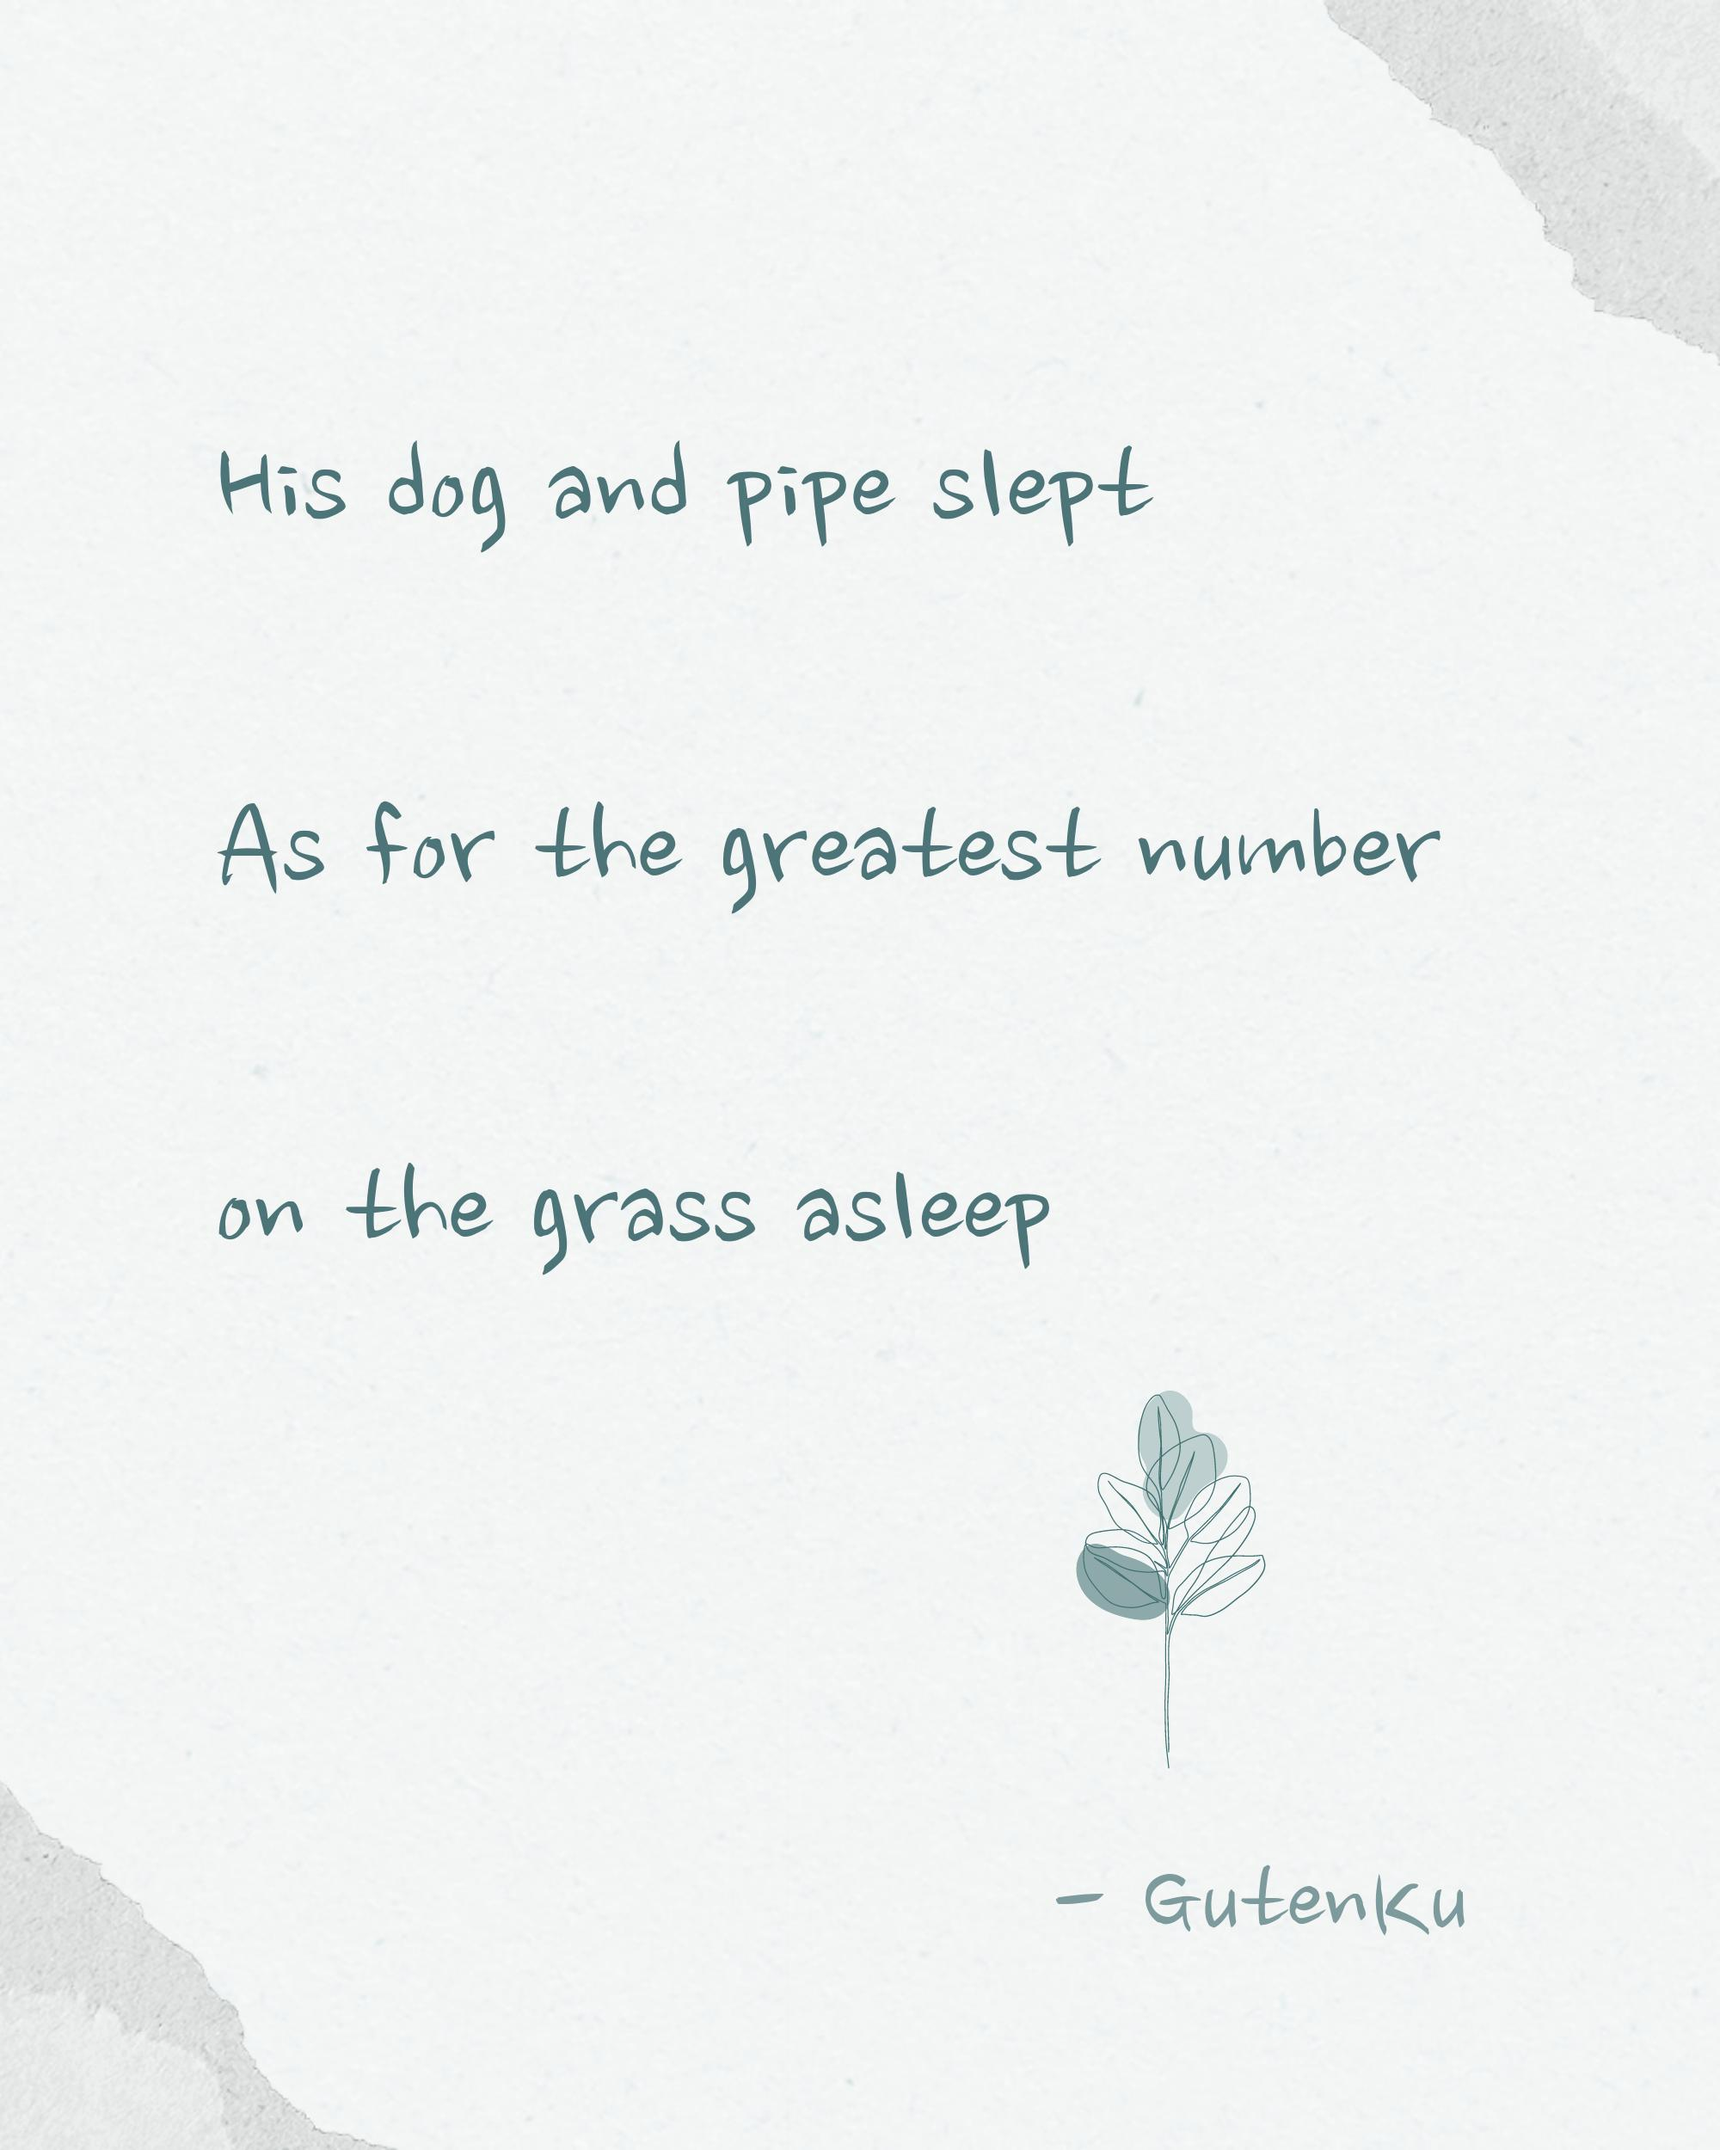
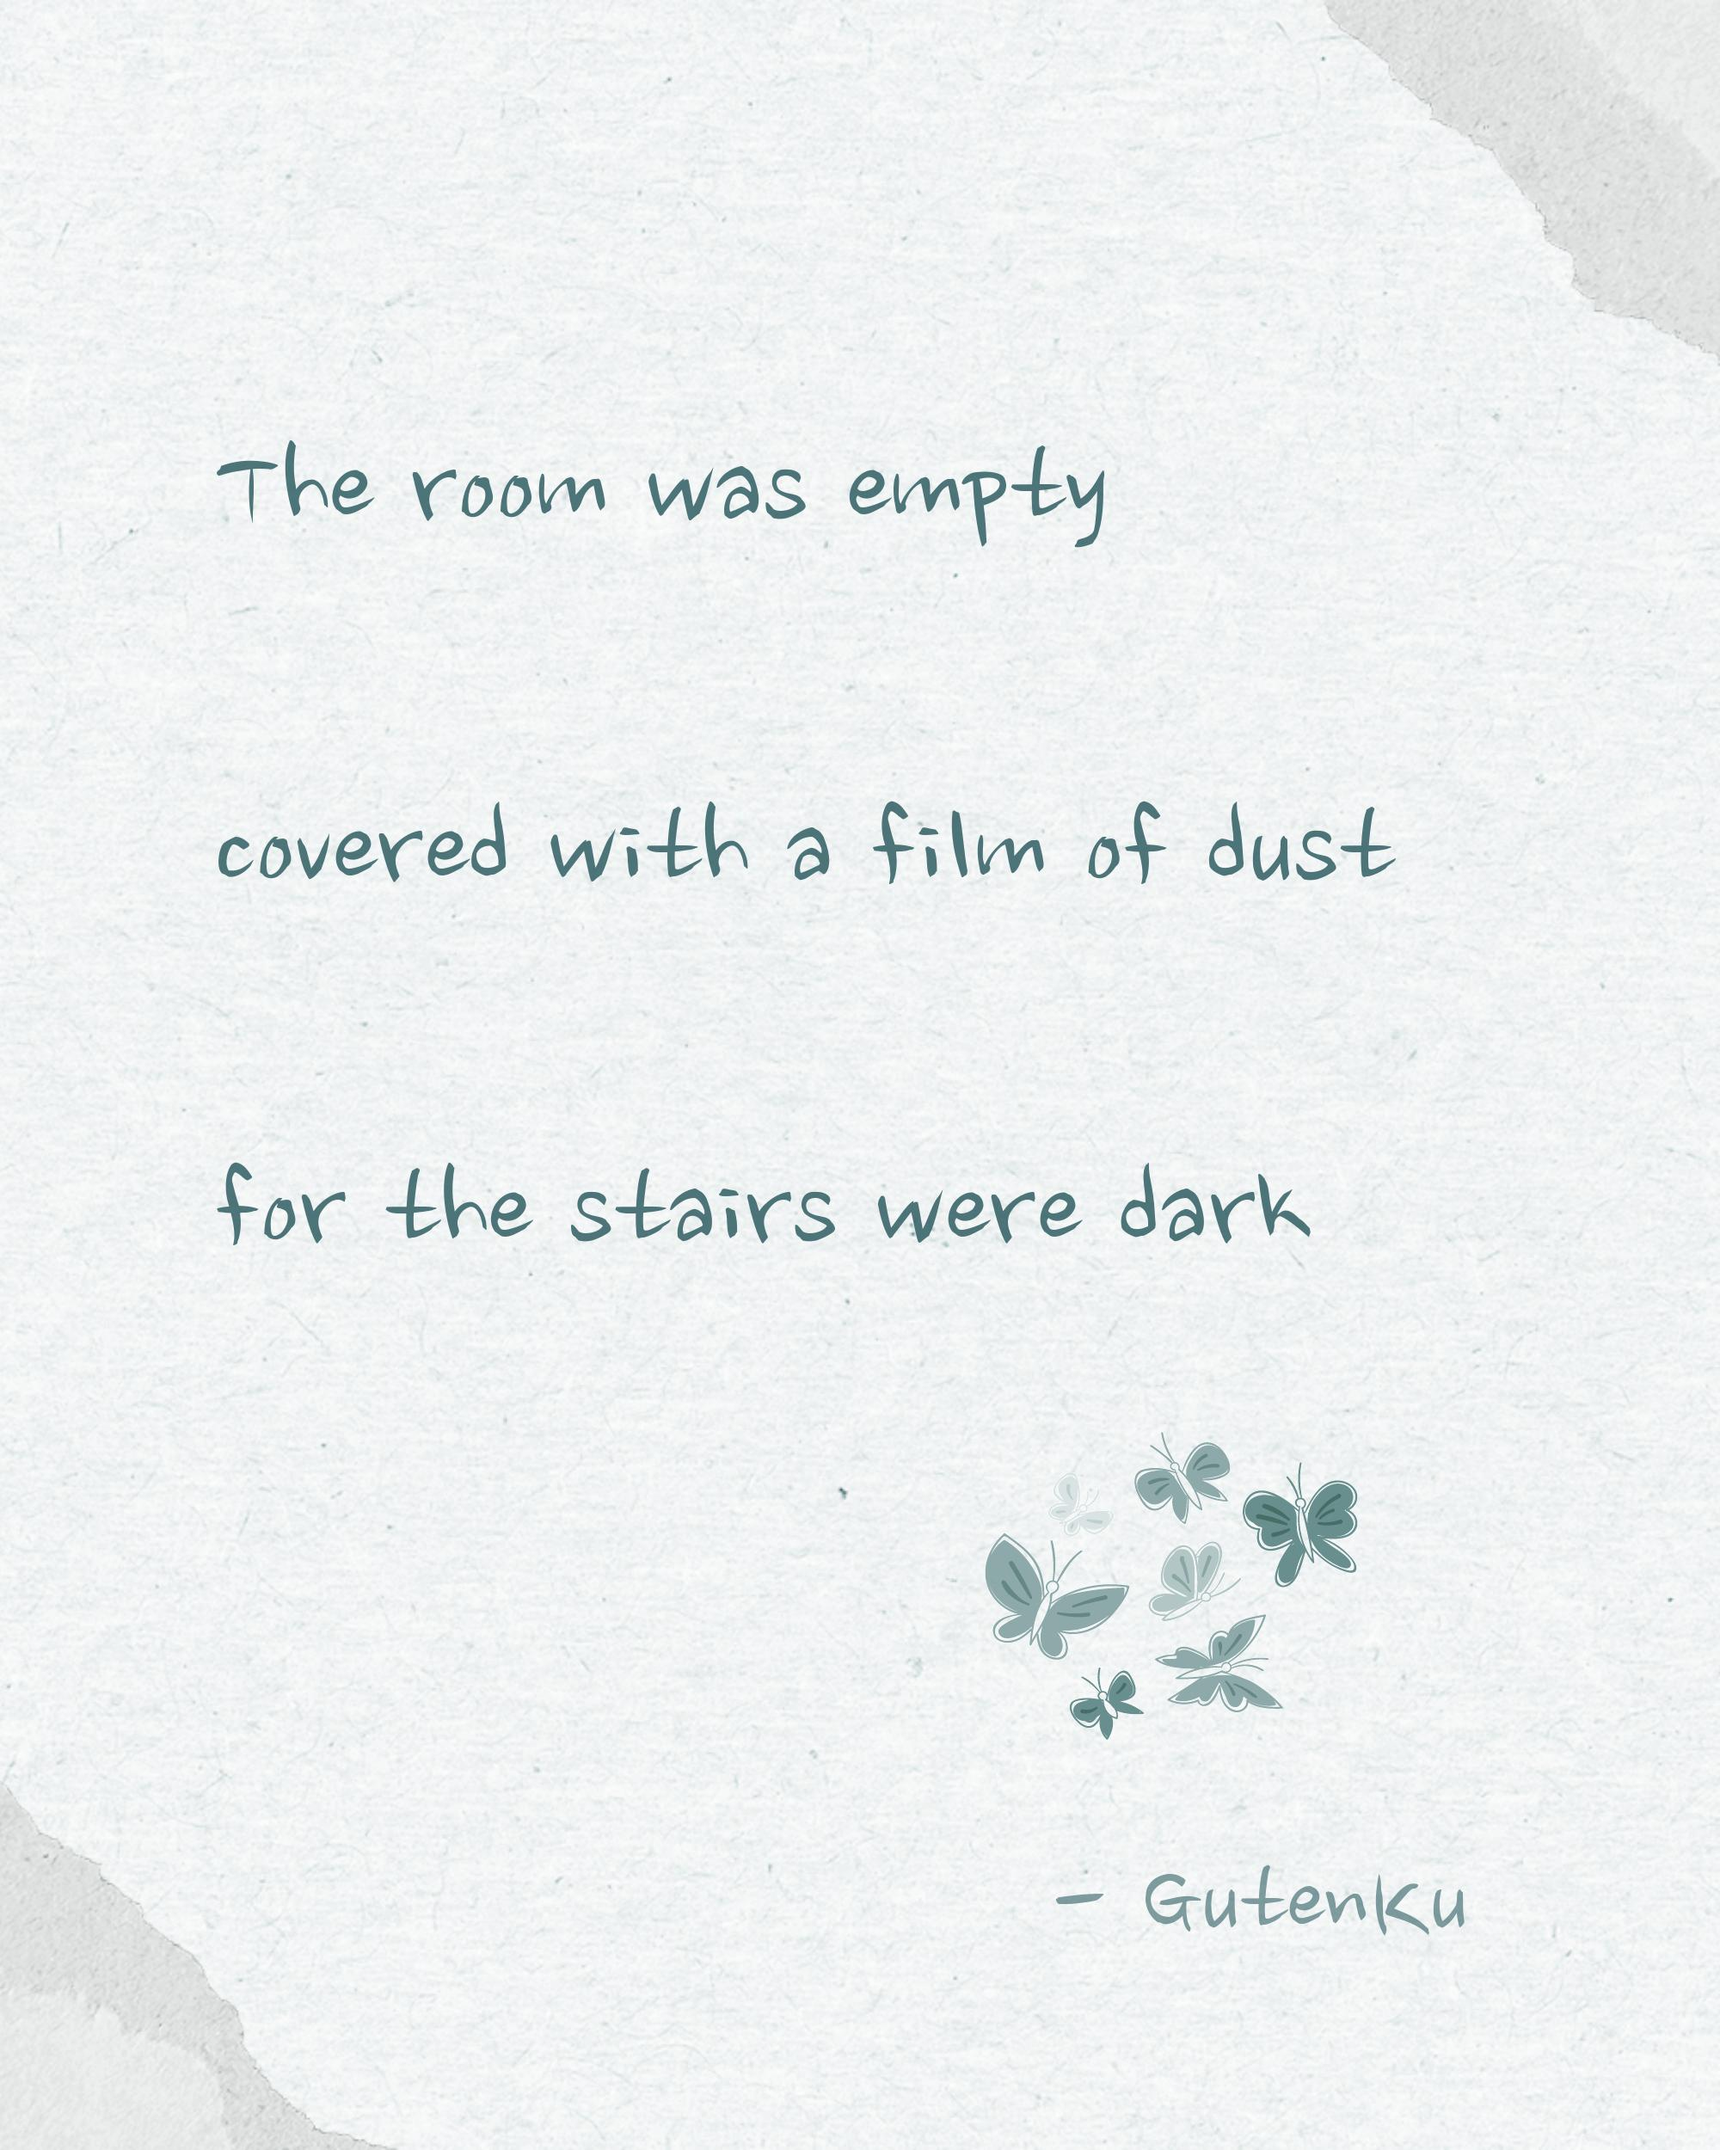
docs(readme): updated daily haiku card

diff --git a/README.md b/README.md
@@ -25,13 +25,13 @@
 <table>
 <tr>
 <td width="300" valign="top">
-<img src="/assets/img/daily_haiku_card.jpg?t=1788516036" width="280" alt="Daily Haiku Card">
+<img src="/assets/img/daily_haiku_card.jpg?t=1788602437" width="280" alt="Daily Haiku Card">
 </td>
 <td valign="top">
 
-> _"This haiku creates a peaceful, almost dreamlike scene in which a man’s dog and pipe are both resting on the grass. The phrase "slept" gives the image of stillness and calm, while "As for the greatest number" suggests that many others may also be asleep or at rest, expanding the quiet mood beyond just these two objects. The final line, "on the grass asleep," reinforces the softness of the setting and makes nature feel like a place of universal peace. Overall, the haiku captures a moment of deep tranquility, where even ordinary objects seem to share in the stillness of the world."_
+> _"This haiku creates a quiet, lonely atmosphere. The empty room and film of dust suggest long abandonment, while the dark stairs add a sense of mystery and unease. The poem uses simple images to show stillness, time passing, and perhaps the memory of something once lived in but now forgotten."_
 
-— **BotenKu** 📅 _Sep 04, 2026_
+— **BotenKu** 📅 _Sep 05, 2026_
 
 </td>
 </tr>
